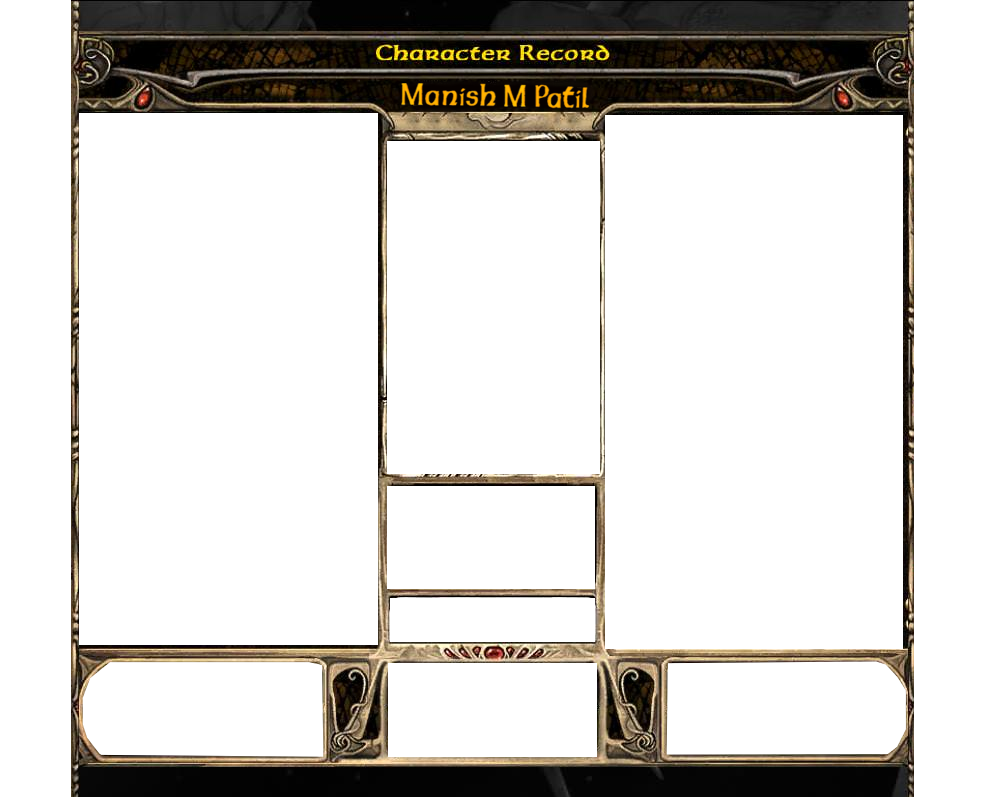
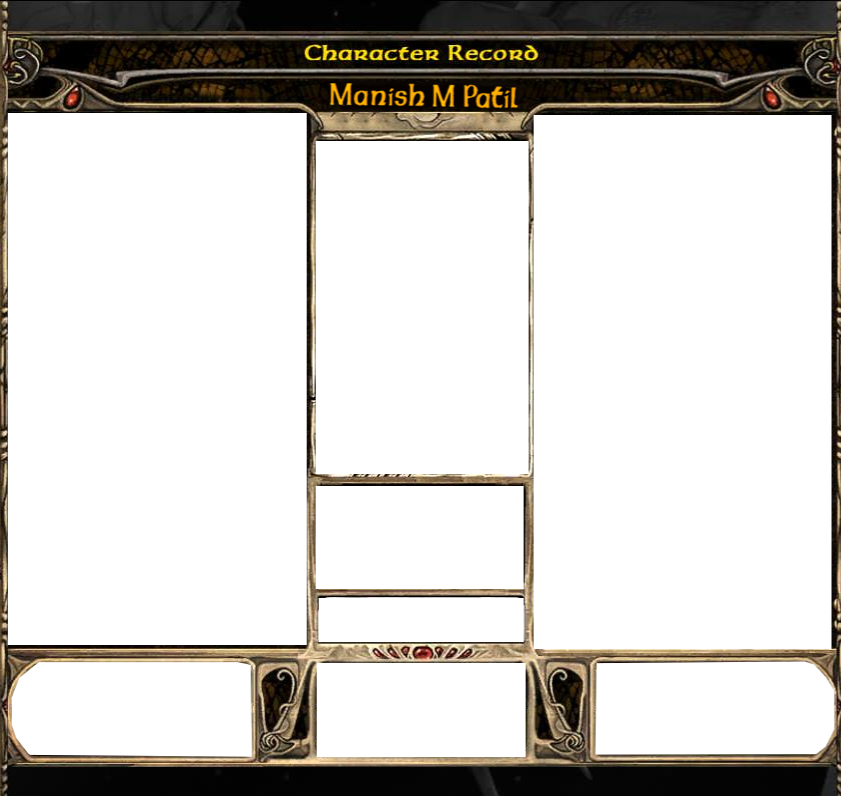
scene4 base

Changed region(s): [[0.0, 0.0, 1.0, 1.0]]

diff --git a/scene4.js b/scene4.js
@@ -9,11 +9,13 @@ export class Scene4{
 		this.textureD=new Image();
 		this.textureL=new Image();
 		this.textureLCrack=new Image();
+		this.headdingWrapper=new Image();
 		this.selectorImg=[];
 		this.buttonsImg=[];
+		this.charSelectorImg=[];
 		this.selectors=[];
 		this.buttons=[];
-		this.headdingWrapper=new Image();
+		this.characters=[];
 		
 		for(let x=1;x<=9;x++){
 			this.selectorImg.push(new Image());
@@ -22,6 +24,10 @@ export class Scene4{
 		for(let x=1;x<=8;x++){
 			this.buttonsImg.push(new Image());
 			this.buttonsImg[x-1].src='./res/scene4/ui/buttons/'+x+'.png';
+		}
+		for(let x=1;x<=7;x++){
+			this.charSelectorImg.push(new Image());
+			this.charSelectorImg[x-1].src='./res/scene4/characters/'+x+'.png';
 		}
 
 		this.bg.src='./res/scene4/bg.png';
@@ -38,6 +44,32 @@ export class Scene4{
 
 		this.init=this.init.bind(this);
 	}
+	init(){
+		this.background=document.createElement('div');
+		this.background.style.display='flex';
+		this.background.style.flexDirection='column';
+		this.background.style.height='100%';
+		this.background.style.width='100%';
+		this.background.style.backgroundImage='url(\''+this.bg.src+'\')';
+		this.background.style.backgroundSize='100% 100%';
+		this.background.style.justifyContent='space-between';
+		this.backgroundVert=document.createElement('div');
+		this.backgroundVert.style.height='70%';
+		this.backgroundVert.style.width='100%';
+		this.backgroundVert.style.display='flex';
+		this.backgroundVert.style.justifyContent='space-between';
+		this.backgroundVert.style.flexDirection='row';
+		this.leftTextWrapper=document.createElement('div');
+		this.leftTextWrapper.setAttribute('class','textWrapper');
+		this.rightTextWrapper=document.createElement('div');
+		this.rightTextWrapper.setAttribute('class','textWrapper');
+		this.backgroundVert.append(this.leftTextWrapper);
+		this.backgroundVert.append(this.rightTextWrapper);
+		this.initButtons();
+		this.background.append(this.backgroundVert);
+		this.background.append(this.buttonWrapper);
+		this.sceneWrapper.append(this.background);
+	}
 	initSelectors(){
 
 		//left side ui selectors
@@ -48,7 +80,9 @@ export class Scene4{
 		this.selectorWrapper.style.display='flex';
 		this.selectorWrapper.style.flexDirection='column';
 		this.selectorWrapper.style.justifyContent='space-between';
-		
+		this.selectorWrapper.style.backgroundImage='url(\''+this.textureL.src+'\')';
+		this.selectorWrapper.style.border='medium inset rgba(250,180,50,0.5)';
+
 		this.selectorImg.forEach(function(val){
 			this.selectors.push(document.createElement('button'));
 			this.selectors[this.selectors.length-1].style.backgroundImage='url(\''+val.src+'\')';
@@ -74,10 +108,9 @@ export class Scene4{
 		}.bind(this));
 		
 		this.buttonsVertical=document.createElement('div');
-		this.buttonsVertical.style.justifyContent='space-between';
+		this.buttonsVertical.style.justifyContent='flex-end';
 		this.buttonsVertical.append(this.buttons[1]);
 		this.buttonsVertical.append(this.buttons[2]);
-		this.buttonsVertical.append(this.buttons[0]);
 		this.buttonsVertical.setAttribute('class','buttonsContainer');
 		this.buttonsVertical.style.order=2;
 			
@@ -95,8 +128,8 @@ export class Scene4{
 		this.buttonsRight.setAttribute('class','buttonsContainer');
 		this.buttonsRight.style.order=3;
 		
-		this.buttonWrapper.style.height='30%';	
-		this.buttonWrapper.style.width='50%';
+		this.buttonWrapper.style.height='10%';	
+		this.buttonWrapper.style.width='100%';
 		this.buttonWrapper.style.display='flex';
 		this.buttonWrapper.style.flexDirection='row';
 		this.buttonWrapper.style.justifyContent='space-between';
@@ -115,7 +148,7 @@ export class Scene4{
 			scrollButton.style.width='50%';
 			this.scrollBar[this.scrollBar.length-1].style.width='10%';
 			this.scrollBar[this.scrollBar.length-1].style.height='100%';
-			this.scrollBar[this.scrollBar.length-1].style.position='absolute';
+			this.scrollBar[this.scrollBar.length-1].style.position='relative';
 			scrollButton.style.position='absolute';
 			scrollButton.style.left='25%';
 			scrollButton.style.top='5%';
@@ -150,6 +183,26 @@ export class Scene4{
 			}.bind(this);
 			this.scrollPos.push(pos);
 	}
-	init(){
+	initChar(){
+		this.characterWrapper=document.createElement('div');
+		this.characterWrapper.setAttribute('class','uiWrapper');
+		this.characterWrapper.style.width='10%';
+		this.characterWrapper.style.height='100%';
+		this.characterWrapper.style.display='flex';
+		this.characterWrapper.style.flexDirection='column';
+		this.characterWrapper.style.justifyContent='flex-top';
+		this.characterWrapper.style.backgroundImage='url(\''+this.textureL.src+'\')';
+		this.characterWrapper.style.border='medium outset rgba(250,180,50,0.5)';
+
+		this.charSelectorImg.forEach(function(val){
+			this.characters.push(document.createElement('button'));
+			this.characters[this.characters.length-1].style.backgroundImage='url(\''+val.src+'\')';
+			this.characters[this.characters.length-1].setAttribute('class', 'uiButton character');
+			this.characters[this.characters.length-1].setAttribute('type', 'button');
+			this.characters[this.characters.length-1].style.order=this.characters.length;
+		}.bind(this));
+		this.characters.forEach(function(val){
+			this.characterWrapper.append(val);
+		}.bind(this));
 	}
 }

diff --git a/index.css b/index.css
@@ -1,10 +1,17 @@
 body{
 	background-color:black;
+	font-family:"sherwood",serif;
 	background-image:url('./res/bg.jpg');
 	overflow:hidden;
 	margin:0px;
 	padding:0px;
 	z-index:1;
+	color:ivory;
+}
+@font-face{
+	font-family:'sherwood';
+	src:url('./res/font/sherwood.woff2');
+
 }
 body:active{
 	cursor:url('./res/cursor/click.cur'), grabbing;
@@ -13,7 +20,6 @@ body:hover{
 	cursor: url('./res/cursor/normal.cur'), auto;
 }
 h1{
-	color:ivory; 
 	position:absolute; 
 	left:50%; 
 	top:50%;  
@@ -57,9 +63,23 @@ canvas div{
 	display:flex;
 	flex-direction:column;
 	height:100%;
-	width:30%;
+	width:25%;
 }
 .buttonsContainer button{
-	height:30%;
+	height:50%;
 	width:100%;
+}
+.character{
+	width:70%;
+	height:12%;
+	margin:2px 15%;
+	border: medium outset rgba(250,180,50,0.5);
+	border-radius:2px;
+}
+.textWrapper{
+	background-image:url('./res/scene4/textureD.png');
+	border:medium double #130606;
+	width:30%;
+	height:100%;
+	overflow:hidden;
 }

diff --git a/scene1.js b/scene1.js
@@ -33,7 +33,7 @@ export class Scene1{
 
 		this.cockatoo1=[
 			[0.5,0.48],
-			['white',`${this.fontSize}px sans-serif`],
+			['white',`${this.fontSize}em sans-serif`],
 			'Hey POKEY!                                                      ',
 			'what are you reading?                            '
 		]; 
